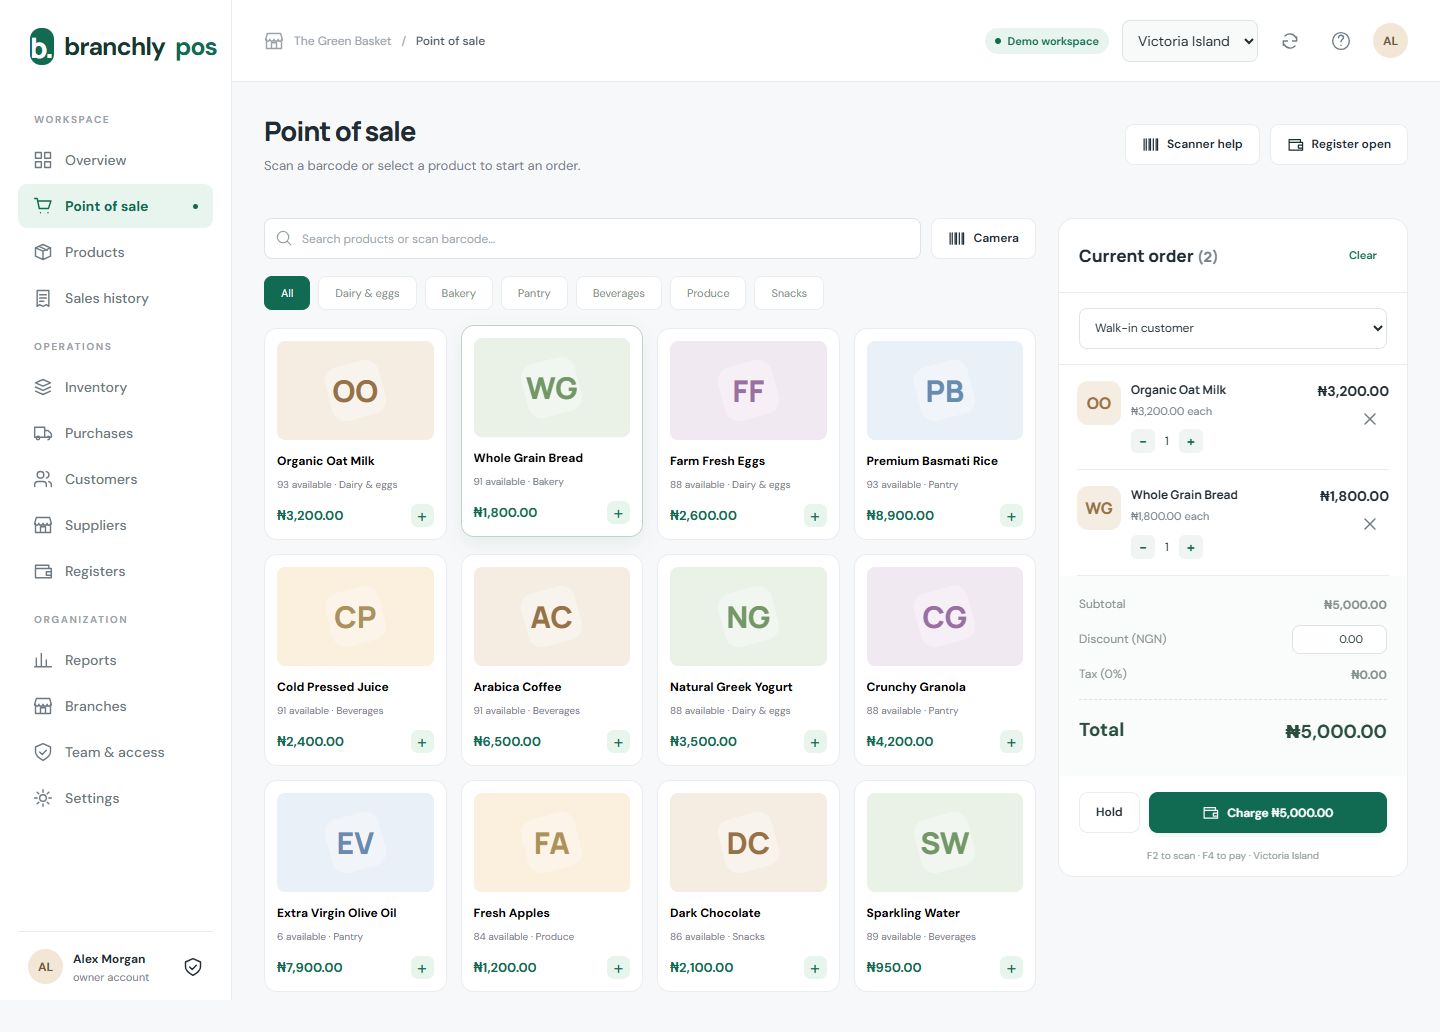
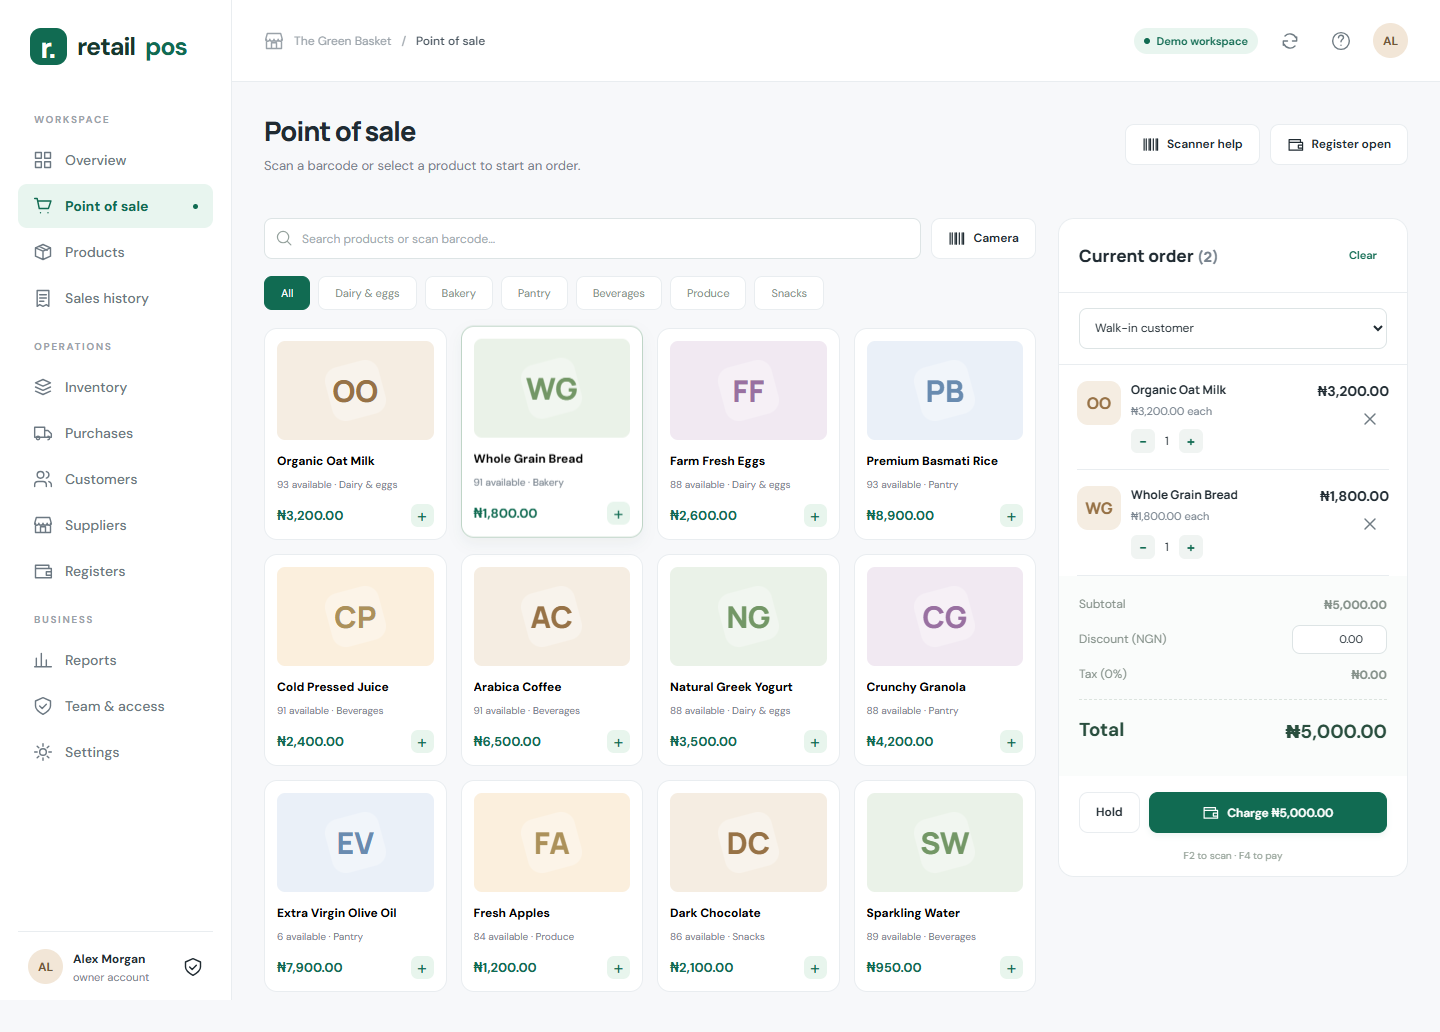
Present simplified single-store POS release

diff --git a/README.md b/README.md
@@ -1,45 +1,44 @@
-# Branchly POS
+# Retail POS
 
-A custom retail workspace built with Google Apps Script and Google Sheets, designed around clear navigation, fast checkout, and visibility across multiple branches.
+A custom retail workspace built with Google Apps Script and Google Sheets, designed around clear navigation, fast checkout, and straightforward stock management for one company and one store.
 
-**Status: version 0.2 — owner-only validation release.** Core workflows are implemented and tested locally. Live Google authorization, staff sign-in, device compatibility, and workload acceptance checks remain before production rollout.
+**Status: version 0.3 — owner-only validation release.** Core workflows are implemented and tested locally. Live Google authorization, staff sign-in, device compatibility, and workload acceptance checks remain before production rollout.
 
 ## A view of the workspace
 
-The screenshots below use fictional products, customers, branches, and transactions from the local demo. They contain no live business data.
+The screenshots below use fictional products, customers, and transactions from the local demo. They contain no live business data.
 
-![Organization overview with sales metrics, product performance, and recent transactions](media/overview.png)
+![Business overview with sales metrics, product performance, and recent transactions](media/overview.png)
 
 ![Responsive checkout with product search, category navigation, and an order panel](media/checkout.png)
 
 ## What is implemented
 
-- Shared product catalog with categories, SKUs, barcodes, and reorder levels.
-- Branch-specific stock, receiving, adjustments, and transfers.
+- Product catalog with categories, SKUs, barcodes, and reorder levels.
+- One stock balance per product, supplier receiving, and adjustments.
 - Checkout with discounts, tax, recorded cash/card/transfer or split payments, and printable receipts.
 - USB/Bluetooth keyboard-scanner input and Code 128 product label generation.
 - Full returns, register opening/closing, and cash reconciliation.
 - Customers, suppliers, date-filtered reports, and CSV exports.
 - Server-side owner/manager/cashier role checks and an audit history.
-- Independent organization provisioning, with a separate project and data store per organization.
 - Responsive desktop, tablet, and phone layouts, including a mobile order shortcut.
 
 Camera scanning is optional and browser-dependent. Card and bank-transfer transactions are recorded after external confirmation; this release does not charge a payment gateway. Staff records do not automatically enable access to the owner-only Google deployment.
 
 ## Validation so far
 
-- 25 business-rule and simulated Google-adapter tests passed.
-- 6 browser tests passed, including barcode checkout, returns, stock transfers, label rendering, onboarding, response-loss retries, and responsive layout checks.
+- 26 business-rule and simulated Google-adapter tests passed.
+- 7 browser tests passed, including barcode checkout, returns, stock adjustments, label rendering, onboarding, response-loss retries, and responsive layout checks.
 - Desktop and mobile screenshots reviewed using fictional demo data.
 
 These checks do not replace live Google, scanner, printer, permission, or load testing.
 
 ## Next milestones
 
-- Complete live organization setup and confirm persistent Google Sheets transactions.
-- Validate staff identity and branch access in the intended Google Workspace environment.
+- Complete live business setup and confirm persistent Google Sheets transactions.
+- Validate staff identity and role permissions in the intended Google Workspace environment.
 - Test actual barcode readers and receipt/label printers.
-- Measure realistic multi-branch traffic and validate backup/recovery procedures.
+- Measure realistic checkout traffic and validate backup/recovery procedures.
 - Expand capabilities based on pilot feedback, including payment integrations and additional retail workflows.
 
 Offline checkout, native installation, partial returns, loyalty, supplier payables, and expiry/serial tracking are not part of this release.

diff --git a/DEVELOPMENT.md b/DEVELOPMENT.md
@@ -1,17 +1,13 @@
-# Development journal
+# Development journal
 
-## Version 0.2 — retail workflows and multiple branches
+## Version 0.3 — a simpler retail POS
 
-Implemented a custom responsive interface with an organization overview, checkout, products, inventory, purchases, customers, suppliers, registers, reports, branches, team roles, and settings.
+Focused the application on one company and one store. Simplified setup, navigation, inventory, checkout, receipts, reports, CSV exports, and staff forms. Removed location management, internal stock transfers, and additional-company provisioning tools. Existing transaction history is preserved.
 
-Added exact barcode and SKU lookup for keyboard-style scanners, internally generated product codes, and printable Code 128 labels. Camera scanning is an optional enhancement on compatible browsers.
+The POS retains barcode checkout, printable Code 128 labels, purchases, stock adjustments, cash/card/bank-transfer payment recording, receipts, full returns, registers, customers, suppliers, and reports. Desktop, tablet, and phone layouts remain supported.
 
-Connected the workflows to server-side validation and a transaction journal. Automated checks cover branch-specific stock, duplicate request protection, refunds, cash reconciliation, access rules, and independent organization setup. Browser tests found a small-screen overflow issue that was corrected; a fixed mobile order shortcut now keeps the cart easy to reach.
-
-The local suite currently passes 25 domain/adapter tests and 6 browser tests. The application source was accepted by Apps Script and an owner-only web deployment was created. The screenshots in this repository use fictional demo data. Live Google authorization, persistence, and physical devices still need acceptance testing, and the release remains owner-only during that validation.
+Backend checks cover transaction integrity, permissions, retry protection, and compatibility with older records. Browser checks cover onboarding, navigation, checkout, returns, stock adjustments, barcode rendering, and responsive layouts. Screenshots use fictional demo data only. Live Google persistence, staff sign-in, and physical hardware still require acceptance testing.
 
 ## Foundation
 
-Selected Google Apps Script for the server and custom HTML/CSS/JavaScript UI, replacing the initial AppSheet direction to provide more interface design control. Google Sheets is the data platform.
-
-Established separate private source and public showcase repositories. Public updates distinguish verified progress from planned functionality and never mirror private source history.
+Google Apps Script serves a custom HTML/CSS/JavaScript interface backed by Google Sheets. Application source is maintained in a private repository; this public showcase contains curated progress and sanitized previews.
